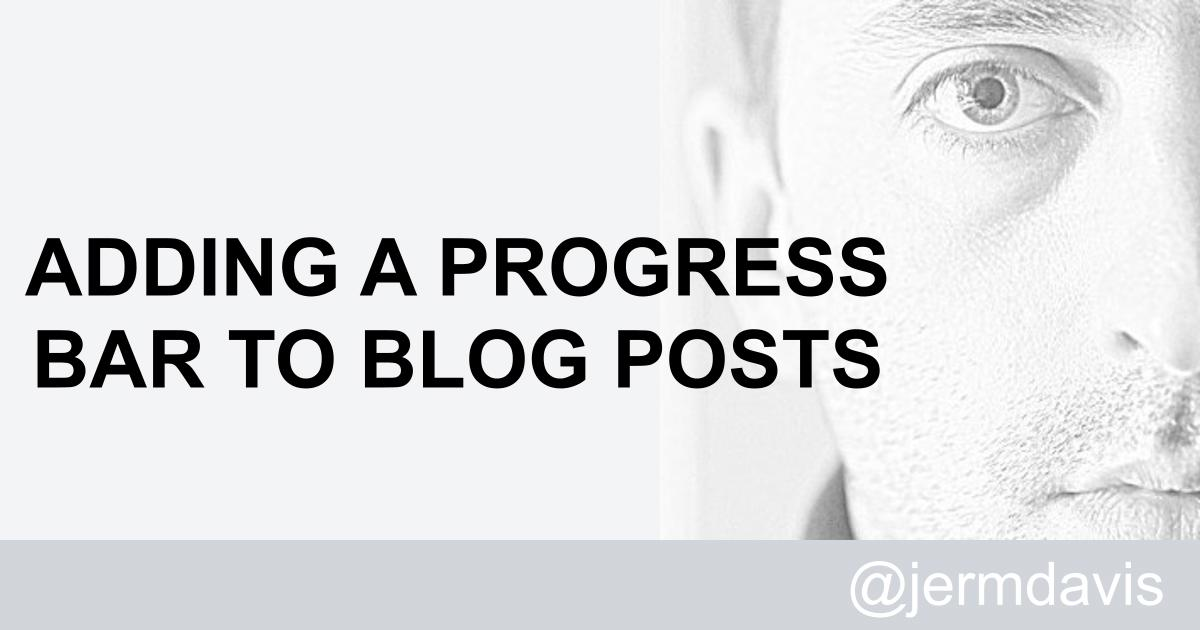
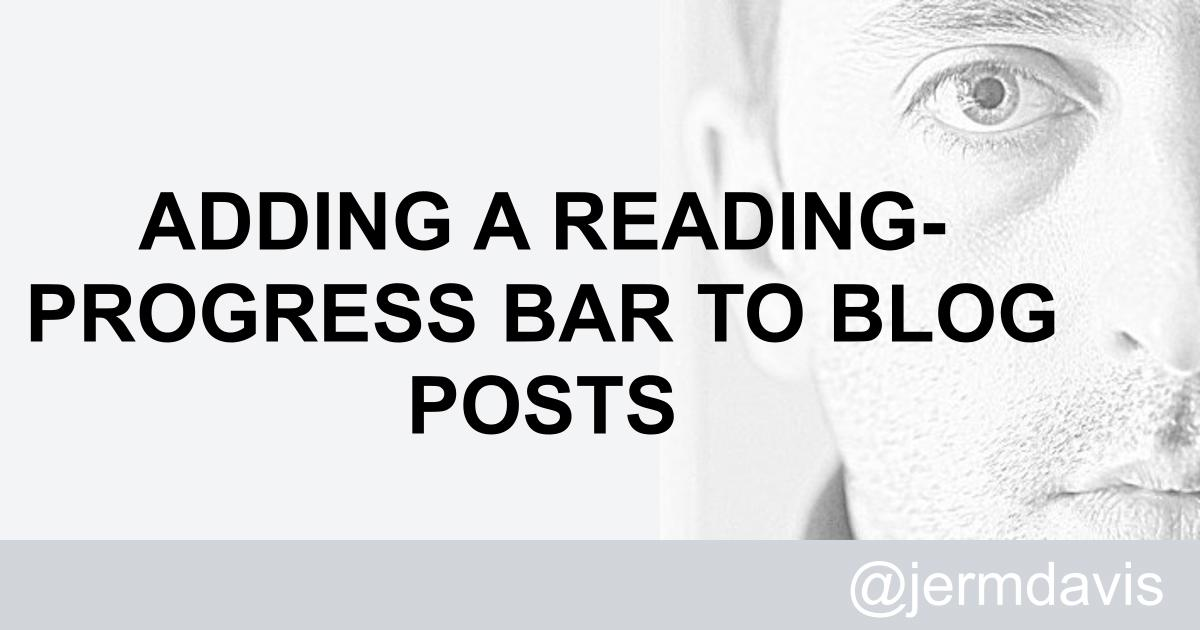
Tweak title of latest post

Changed region(s): [[0.0, 0.3016, 0.8942, 0.6937]]

diff --git a/posts/2023/adding-reading-progress-indicator.html b/posts/2023/adding-reading-progress-indicator.html
@@ -10,7 +10,7 @@
 		<meta name="keywords" content="Statiq, Mermaid, JavaScript">
 		<meta name="author" content="Jeremy Davis">
 		<meta name="copyright" content="Jeremy Davis">
-		<title>Jeremy Davis - Adding a progress bar to blog posts</title>
+		<title>Jeremy Davis - Adding a reading-progress bar to blog posts</title>
 		<meta name="robots" content="index, follow">
 		<link type="application/rss+xml" rel="alternate" title="Jeremy Davis - Sitecore, C# and web development" href="/feed.rss">
 		<link type="application/atom+xml" rel="alternate" title="Jeremy Davis - Sitecore, C# and web development" href="/feed.atom">
@@ -18,7 +18,7 @@
 		<meta name="msapplication-tooltip" content="Jeremy Davis">
 		<meta name="msapplication-starturl" content="/">
 		<link rel="manifest" href="/manifest.webmanifest">
-		<meta property="og:title" content="Adding a progress bar to blog posts [by Jeremy Davis]">
+		<meta property="og:title" content="Adding a reading-progress bar to blog posts [by Jeremy Davis]">
 		<meta property="og:publish_date" content="2023-12-04T00:00:00+00:00">
 		<meta property="og:type" content="article">
 		<meta property="og:image" content="https://blog.jermdavis.dev/img/featured/adding-reading-progress-indicator-social.jpg">
@@ -26,7 +26,7 @@
     {
         "@context": "https://schema.org",
         "@type": "article",
-        "headline": "Adding a progress bar to blog posts",
+        "headline": "Adding a reading-progress bar to blog posts",
         "url": "https://blog.jermdavis.dev/posts/2023/adding-reading-progress-indicator",
         "image": [
             "https://blog.jermdavis.dev/img/featured/adding-reading-progress-indicator-social.jpg"
@@ -129,7 +129,7 @@
 					<tt>https://blog.jermdavis.dev/posts/2023/adding-reading-progress-indicator</tt>
 				</div>
 				<h1 class="text-5xl mb-4 pb-1">
-					Adding a progress bar to blog posts
+					Adding a reading-progress bar to blog posts
 				</h1>
 				<h2 class="text-2xl">Easy stuff isn't always as easy as you expect</h2>
 				<div class="meta">Published 04 December 2023</div>

diff --git a/index.html b/index.html
@@ -30,7 +30,7 @@
 		<link href="/scss/site-theme.css" rel="stylesheet">
 		<script src="/vendor/Cookies/cookies.min.js" defer=""></script>
 		
-		<!-- 04/12/2023 09:22:36 -->
+		<!-- 04/12/2023 20:03:07 -->
 	</head>
 	<body class="max-w-7xl mx-auto text-black" id="top">
 		<div class="relative bg-white" x-data="{ open: false }">
@@ -125,7 +125,7 @@
 							<div class="col-md-6 right-border col-sm-height">
 								<div class="post-preview">
 									<h2 class="post-title">
-										<a href="/posts/2023/adding-reading-progress-indicator">Adding a progress bar to blog posts</a>
+										<a href="/posts/2023/adding-reading-progress-indicator">Adding a reading-progress bar to blog posts</a>
 									</h2>
 									<div class="post-subtitle">
 										<i>Easy stuff isn't always as easy as you expect</i>

diff --git a/tags/javascript/index.html b/tags/javascript/index.html
@@ -121,7 +121,7 @@
 							<div class="col-md-6 right-border col-sm-height">
 								<div class="post-preview">
 									<h2 class="post-title">
-										<a href="/posts/2023/adding-reading-progress-indicator">Adding a progress bar to blog posts</a>
+										<a href="/posts/2023/adding-reading-progress-indicator">Adding a reading-progress bar to blog posts</a>
 									</h2>
 									<div class="post-subtitle">
 										<i>Easy stuff isn't always as easy as you expect</i>

diff --git a/tags/mermaid/index.html b/tags/mermaid/index.html
@@ -121,7 +121,7 @@
 							<div class="col-md-6 right-border col-sm-height">
 								<div class="post-preview">
 									<h2 class="post-title">
-										<a href="/posts/2023/adding-reading-progress-indicator">Adding a progress bar to blog posts</a>
+										<a href="/posts/2023/adding-reading-progress-indicator">Adding a reading-progress bar to blog posts</a>
 									</h2>
 									<div class="post-subtitle">
 										<i>Easy stuff isn't always as easy as you expect</i>

diff --git a/tags/statiq/index.html b/tags/statiq/index.html
@@ -121,7 +121,7 @@
 							<div class="col-md-6 right-border col-sm-height">
 								<div class="post-preview">
 									<h2 class="post-title">
-										<a href="/posts/2023/adding-reading-progress-indicator">Adding a progress bar to blog posts</a>
+										<a href="/posts/2023/adding-reading-progress-indicator">Adding a reading-progress bar to blog posts</a>
 									</h2>
 									<div class="post-subtitle">
 										<i>Easy stuff isn't always as easy as you expect</i>

diff --git a/posts/2023-12.html b/posts/2023-12.html
@@ -118,7 +118,7 @@
 				<div class="lg:flex-auto mx-3 lg:min-w-0 ">
 					<div class="post-preview">
 						<h2 class="post-title">
-							<a href="/posts/2023/adding-reading-progress-indicator">Adding a progress bar to blog posts</a>
+							<a href="/posts/2023/adding-reading-progress-indicator">Adding a reading-progress bar to blog posts</a>
 						</h2>
 						<div class="post-subtitle">
 							<i>Easy stuff isn't always as easy as you expect</i>
